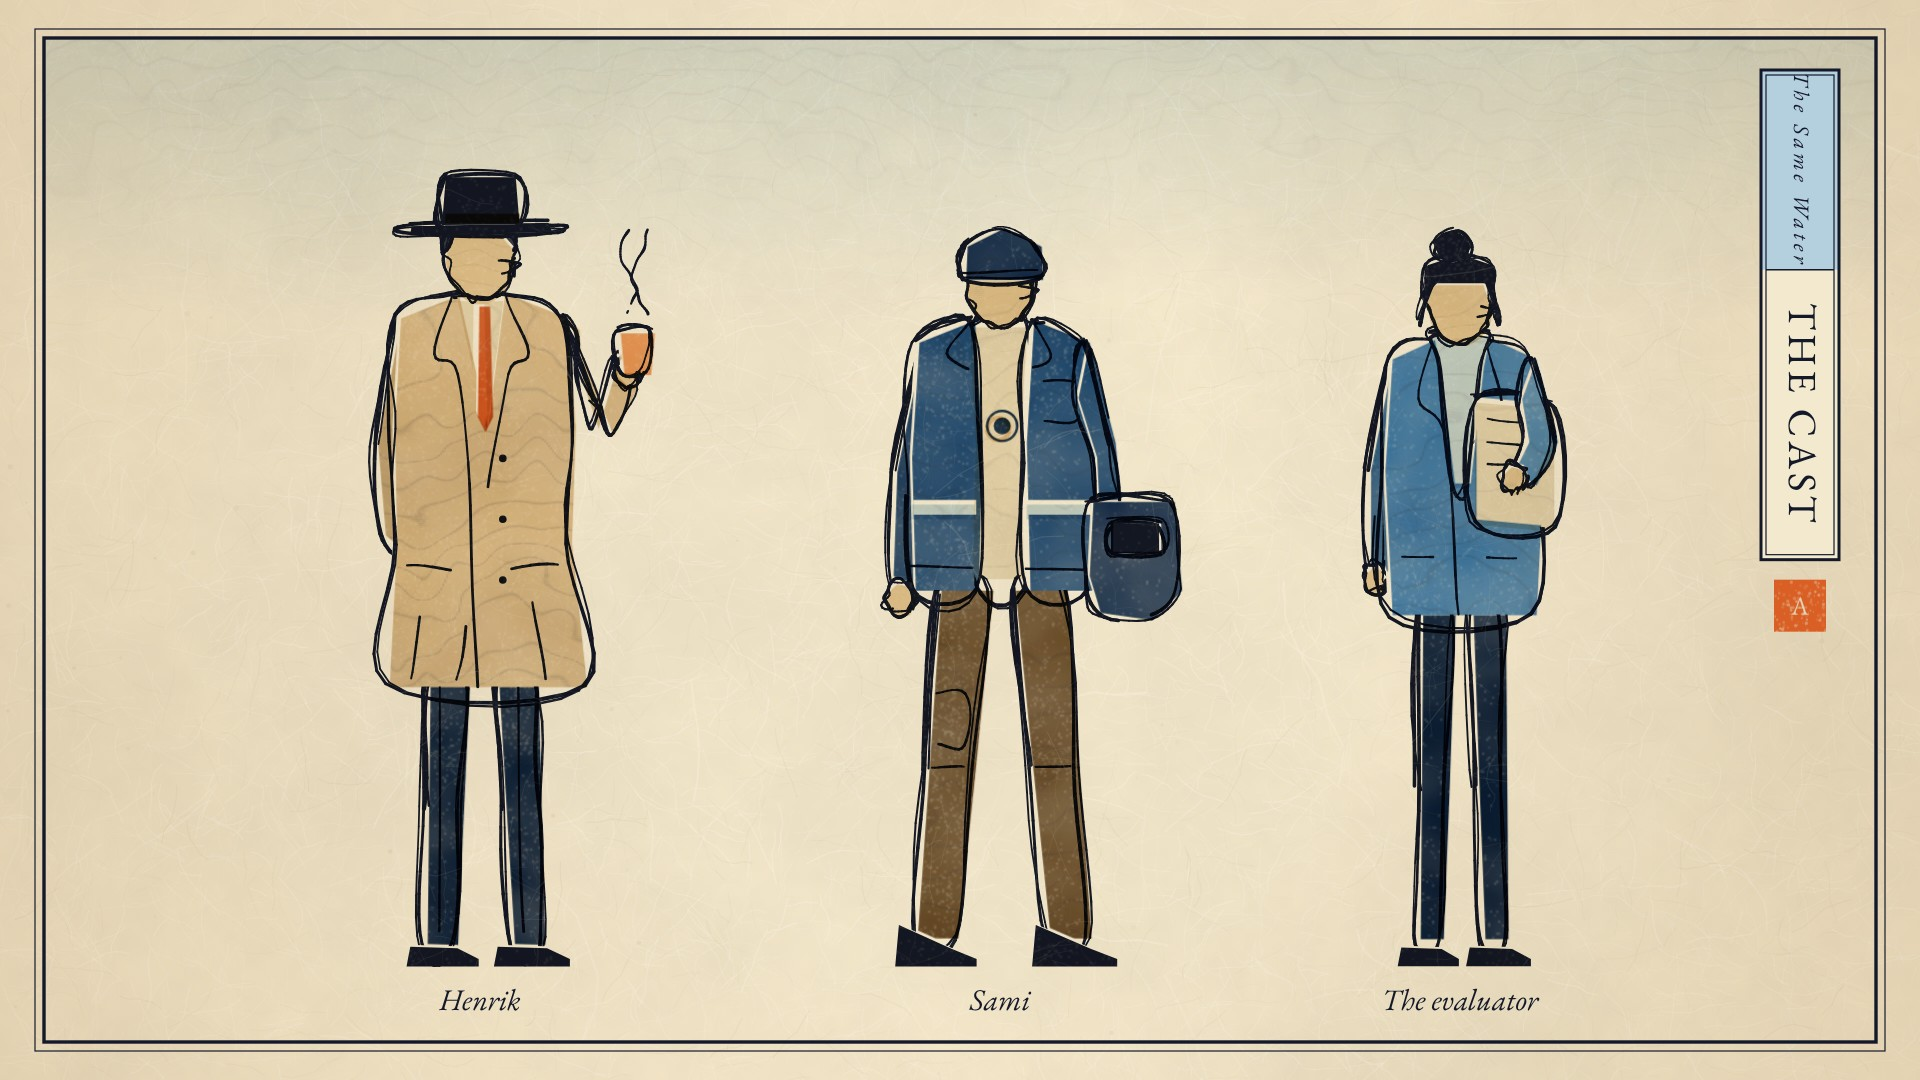
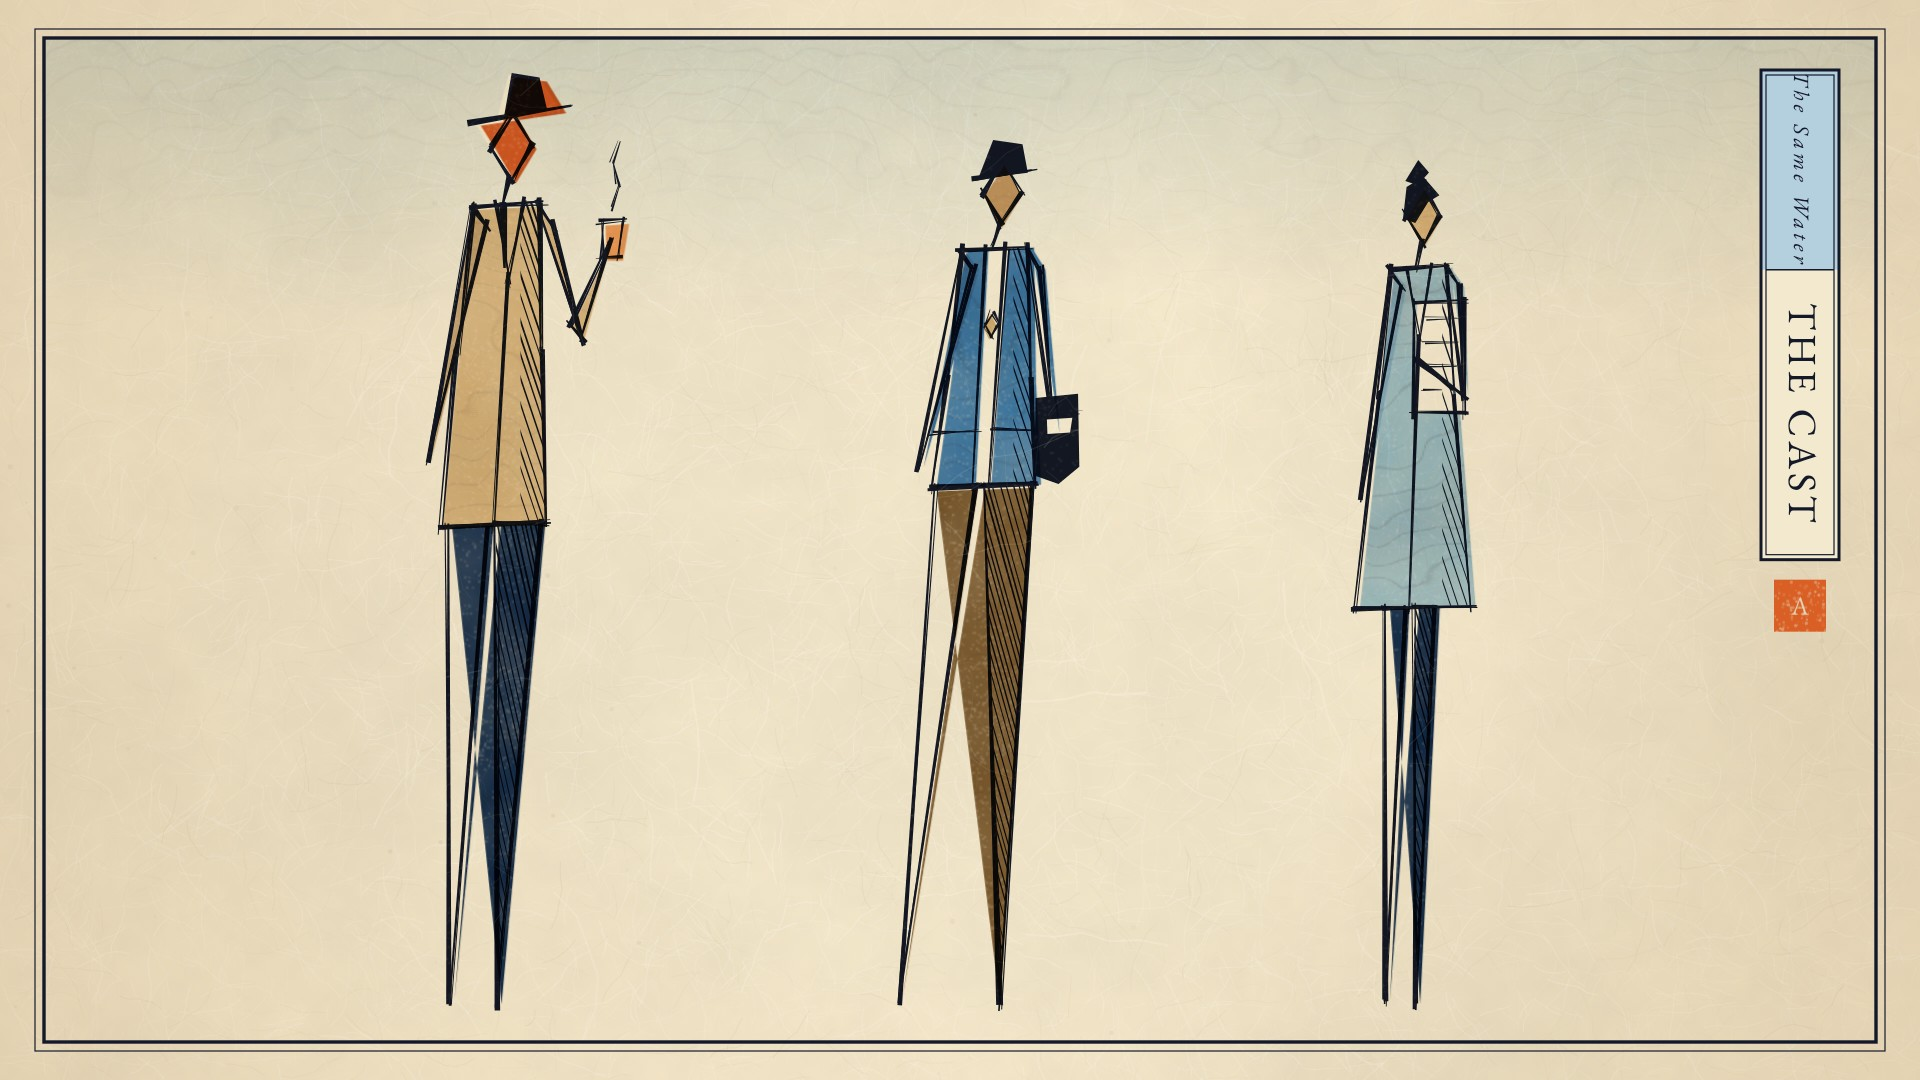
Sami and the evaluator on Henrik's angular build; cast sheet redrawn
Claude-Session: https://claude.ai/code/session_01HVgDQT8ojXg5SvENbDJY1F

Changed region(s): [[0.1875, 0.0611, 0.3438, 0.9472], [0.4375, 0.1222, 0.625, 0.9472], [0.6875, 0.1528, 0.8125, 0.9472]]

diff --git a/_film/henrik/ukiyoe/frames.js b/_film/henrik/ukiyoe/frames.js
@@ -237,6 +237,62 @@ function henrikSharp(x, y, s, o = {}) {
   shatch(legR, { gap: s * .006, ang: 1.35, w: s * .002, seed: sd + 2 });
 }
 
+
+// Sami and the evaluator, on Henrik's build: straight strokes, triangles for limbs, colour by zone
+function sharpKit(x, y, s, o) {
+  const d = o.dir || 1, lean = o.lean ?? .045, q = (u, v) => [x + (u * .82 - lean * v) * s * d, y + v * s], Q = a => a.map(([u, v]) => q(u, v)), sd = x * .11 + y * .05 + (o.seed || 0);
+  const W = s * .0048, opt = k => ({ w: W, jit: s * .0018, over: s * .008, seed: sd + k * 3.1 });
+  return { q, Q, sd, W, opt, ink: p => { X.key.fillStyle = P.sumi; X.key.beginPath(); poly(X.key, p); X.key.fill(); } };
+}
+function samiSharp(x, y, s, o = {}) { // the welder: beanie, short open jacket, crest, helmet under the arm, mid-stride
+  const { q, Q, sd, W, opt, ink } = sharpKit(x, y, s, { lean: .06, ...o });
+  const C = { head: P.gold, body: P.mid, legs: P.goldD };
+  const head = Q([[.004, -.975], [.032, -.94], [.006, -.902], [-.022, -.938]]);
+  const cap = Q([[-.03, -.955], [.04, -.962], [.03, -.995], [-.012, -1.0]]);
+  const jacket = Q([[-.046, -.872], [.048, -.876], [.062, -.72], [.078, -.6], [-.07, -.596], [-.058, -.72]]);
+  const shirt = Q([[-.012, -.872], [.016, -.874], [.012, -.6], [-.01, -.598]]);
+  const legL = Q([[-.064, -.596], [-.006, -.598], [-.07, .0]]), legR = Q([[.004, -.598], [.072, -.6], [.07, .004]]); // mid-stride: the triangles splay
+  const armB = Q([[-.048, -.87], [-.028, -.85], [-.09, -.62]]);
+  const armF = Q([[.046, -.874], [.066, -.85], [.1, -.66]]);
+  const helmet = Q([[.07, -.7], [.13, -.705], [.138, -.62], [.11, -.6], [.075, -.61]]);
+  flat('gold', [...head], C.head); flat('blue', jacket, C.body); flat('gold', [...legL, ...legR], C.legs); flat('blue', armB, mix(C.body, P.blue, .4)); flat('blue', armF, C.body);
+  knock(['blue', 'gold'], xx => poly(xx, shirt)); // the open jacket shows paper
+  ink(cap); sline(...Q([[-.035, -.955], [.045, -.963]]), { ...opt(1), w: W * 1.2 });
+  spoly(head, opt(2), true); sline(...Q([[.003, -.902], [-.002, -.876]]), opt(3));
+  spoly(Q([[-.046, -.872], [-.058, -.72], [-.07, -.596]]), opt(4)); spoly(Q([[.048, -.876], [.062, -.72], [.078, -.6]]), opt(5)); sline(...Q([[-.07, -.596], [.078, -.6]]), opt(6)); sline(...Q([[-.046, -.872], [.048, -.876]]), opt(7));
+  sline(...Q([[-.012, -.872], [-.01, -.598]]), { ...opt(8), w: W * .8 }); sline(...Q([[.016, -.874], [.012, -.6]]), { ...opt(9), w: W * .8 });
+  sline(...Q([[-.07, -.66], [-.012, -.66]]), { ...opt(10), w: W * .6 }); sline(...Q([[.014, -.662], [.074, -.662]]), { ...opt(11), w: W * .6 }); // reflective band
+  const crest = Q([[.002, -.8], [.012, -.785], [.002, -.77], [-.008, -.785]]); flat('gold', crest, P.goldL, [0, 0]); spoly(crest, { ...opt(12), w: W * .6, over: 1 }, true); // the crest, worn: a diamond
+  shatch(jacket, { gap: s * .008, ang: 1.25, w: s * .0022, seed: sd + 1, x0: q(.035, -.75)[0], x1: q(.1, -.75)[0] });
+  spoly(armB, opt(13), true); spoly(armF, opt(14), true);
+  ink(helmet); sline(...Q([[.085, -.68], [.125, -.682]]), { ...opt(15), w: W * .5 }); // the welding helmet, its visor slit left as paper
+  X.key.save(); X.key.globalCompositeOperation = 'destination-out'; X.key.beginPath(); poly(X.key, Q([[.088, -.675], [.124, -.677], [.122, -.66], [.09, -.658]])); X.key.fill(); X.key.restore();
+  spoly(legL, opt(16), true); spoly(legR, opt(17), true);
+  shatch(legR, { gap: s * .006, ang: 1.3, w: s * .002, seed: sd + 2 });
+}
+function evaluatorSharp(x, y, s, o = {}) { // the reader in another city: hair up, an A-line coat to the knee, a folder held to the chest
+  const { q, Q, sd, W, opt, ink } = sharpKit(x, y, s, { lean: .025, ...o });
+  const C = { head: P.goldL, body: P.pale, legs: P.ind };
+  const head = Q([[.004, -.97], [.03, -.935], [.006, -.9], [-.02, -.934]]);
+  const hair = Q([[-.024, -.93], [-.02, -.968], [.004, -.98], [.028, -.958], [.012, -.95], [-.006, -.925]]), bun = Q([[-.022, -.975], [-.004, -1.0], [.012, -.985], [-.004, -.97]]);
+  const coat = Q([[-.04, -.87], [.042, -.873], [.056, -.72], [.088, -.47], [-.08, -.466], [-.054, -.72]]); // A-line, to the knee
+  const legL = Q([[-.036, -.466], [-.008, -.467], [-.022, .0]]), legR = Q([[.006, -.467], [.036, -.468], [.022, .004]]); // thinner, under a longer coat
+  const armB = Q([[-.042, -.868], [-.024, -.85], [-.074, -.6]]);
+  const armU = Q([[.04, -.872], [.06, -.85], [.07, -.72]]), armF = Q([[.07, -.72], [.054, -.73], [.004, -.76]]); // folded across, holding the folder
+  const folder = Q([[-.004, -.83], [.07, -.832], [.072, -.7], [-.002, -.698]]);
+  flat('gold', head, C.head); flat('blue', coat, C.body); flat('blue', [...legL, ...legR], C.legs); flat('blue', armB, mix(C.body, P.mid, .35));
+  ink(hair); ink(bun);
+  spoly(head, opt(1), true); sline(...Q([[.003, -.9], [-.002, -.874]]), opt(2));
+  spoly(Q([[-.04, -.87], [-.054, -.72], [-.08, -.466]]), opt(3)); spoly(Q([[.042, -.873], [.056, -.72], [.088, -.47]]), opt(4)); sline(...Q([[-.08, -.466], [.088, -.47]]), opt(5)); sline(...Q([[-.04, -.87], [.042, -.873]]), opt(6));
+  spoly(Q([[-.016, -.871], [.004, -.79], [.0, -.467]]), { ...opt(7), w: W * .8 }); sline(...Q([[.02, -.872], [.004, -.79]]), { ...opt(8), w: W * .7 });
+  shatch(coat, { gap: s * .009, ang: 1.25, w: s * .002, seed: sd + 1, x0: q(.04, -.7)[0], x1: q(.11, -.7)[0] });
+  spoly(armB, opt(9), true);
+  knock(['blue', 'gold'], xx => poly(xx, folder)); spoly(folder, { ...opt(10), w: W * .8 }, true);
+  for (let k = 0; k < 4; k++) sline(...Q([[.012, -.81 + k * .028], [.06 - (k === 3 ? .02 : 0), -.811 + k * .028]]), { ...opt(11 + k), w: W * .4, over: 1 }); // lines of a submission
+  flat('blue', armU, C.body); flat('blue', armF, C.body); spoly(armU, opt(16), true); spoly(armF, opt(17), true);
+  spoly(legL, opt(18), true); spoly(legR, opt(19), true); shatch(legR, { gap: s * .006, ang: 1.3, w: s * .002, seed: sd + 2 });
+}
+
 // —— the cast: three people built from garment pieces, drawn in the sketch sheet's hand ——
 // local units: u right, v up (feet at 0, crown at -1); dir 1 faces right
 function person(x, y, s, who, o = {}) {
@@ -486,9 +542,9 @@ if (F === 3) { // Monday: the works under rain, its mark on the gable, the crew 
 if (F === 4) { // the cast, on one sheet, like a page of the sketchbook
   Object.values(X).forEach(clipFrame);
   bokashi(X.pale, FR.x0, FR.y0, FR.x1, 320, P.paleL, .6, 0, { rough: 24, seed: 21 });
-  person(480, 960, 760, 'henrik'); person(1000, 960, 740, 'sami'); person(1460, 960, 720, 'evaluator');
+  henrikSharp(470, 1000, 900); samiSharp(950, 1000, 860); evaluatorSharp(1400, 1000, 840);
   compose(x => { x.fillStyle = P.sumi; x.font = 'italic 400 30px "EB Garamond"'; x.textAlign = 'center';
-    [['Henrik', 480], ['Sami', 1000], ['The evaluator', 1460]].forEach(([n, px]) => x.fillText(n, px, 1010)); const e = slip(x, 1800, 70, 'THE CAST', 'The Same Water'); seal(x, 'A', 1800, e + 46, 52); });
+    const e = slip(x, 1800, 70, 'THE CAST', 'The Same Water'); seal(x, 'A', 1800, e + 46, 52); });
 }
 if (F === 5) { // one character, finished: Henrik in line
   Object.values(X).forEach(clipFrame);

diff --git a/_film/henrik/ukiyoe/shoot.js b/_film/henrik/ukiyoe/shoot.js
@@ -1,4 +1,4 @@
 const {chromium}=require('playwright');(async()=>{const b=await chromium.launch();const p=await b.newPage({viewport:{width:1920,height:1080}});
 p.on('pageerror',e=>console.log('ERR',e.message));
-for(const f of [5]){await p.goto(`http://localhost:8765/_film/henrik/ukiyoe/?f=${f}`);await p.waitForFunction(()=>document.title==='done',null,{timeout:180000});
+for(const f of [4]){await p.goto(`http://localhost:8765/_film/henrik/ukiyoe/?f=${f}`);await p.waitForFunction(()=>document.title==='done',null,{timeout:180000});
 await p.screenshot({path:`/home/user/arvorealta/_film/henrik/ukiyoe/u-${f}.jpg`,type:'jpeg',quality:90});}await b.close()})();
